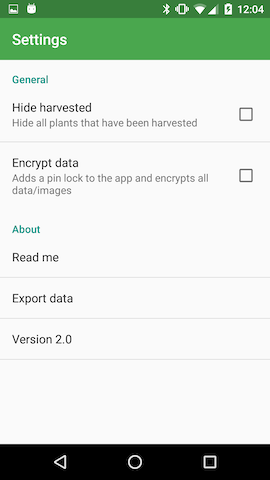
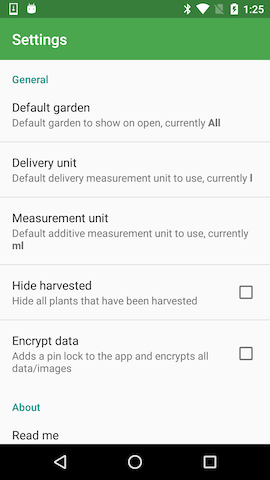
Updated read with new screenshots

diff --git a/README.md b/README.md
@@ -2,13 +2,13 @@
 
 Welcome to grow tracker. This app was created to help record data about growing plants in order to monitor the growing conditions to help make the plants grow better, and identify potential issues during the grow process.
 
-[Latest APK: (MD5) de708f0b7905ea193b6f414eedc7b3e4 v2.0](https://github.com/7LPdWcaW/GrowTracker-Android/raw/master/app/app-production-release.apk)
+[Latest APK: (MD5) 6bdd4b1138d1ce74c11d955a02e66fb4 v2.1](https://github.com/7LPdWcaW/GrowTracker-Android/raw/master/app/app-production-release.apk)
 
-[Latest APK (Discrete): (MD5) 07fd56b31391b955f6321396d77ef115 v2.0](https://github.com/7LPdWcaW/GrowTracker-Android/raw/master/app/app-discrete-release.apk)
+[Latest APK (Discrete): (MD5) 1d81d16ef56d9f963b01ffa5c2ff9656 v2.1](https://github.com/7LPdWcaW/GrowTracker-Android/raw/master/app/app-discrete-release.apk)
 
 # Installation
 
-The app requires no permissions except for external storage (for caching plant data and images) which you can see [here](https://github.com/7LPdWcaW/GrowTracker-Android/blob/develop/app/src/main/AndroidManifest.xml) in order for users to maintain anonymity.
+The app requires no permissions except for external storage (for caching plant data and images) which you can see [here](https://github.com/7LPdWcaW/GrowTracker-Android/blob/develop/app/src/main/AndroidManifest.xml) in order for users to maintain anonymity, and a minimum Android version of `4.0.3` and above
 
 ## How to install
 
@@ -35,6 +35,7 @@ The app requires no permissions except for external storage (for caching plant d
 [![action filters](screenshots/9-thumb.png)](screenshots/9.png)
 [![action options](screenshots/10-thumb.png)](screenshots/10.png)
 [![settings](screenshots/11-thumb.png)](screenshots/11.png)
+[![measurements](screenshots/12-thumb.png)](screenshots/12.png)
 
 # About the app
 
@@ -87,7 +88,7 @@ Water action for waterings
     "ph": <Double>,
     "ppm": <Long>,
     "runoff": <Double>,
-    "amount": <Integer>,
+    "amount": <Double>,
     "date": 1431268453111,
     "type": "Water",
     "temp": <Integer>
